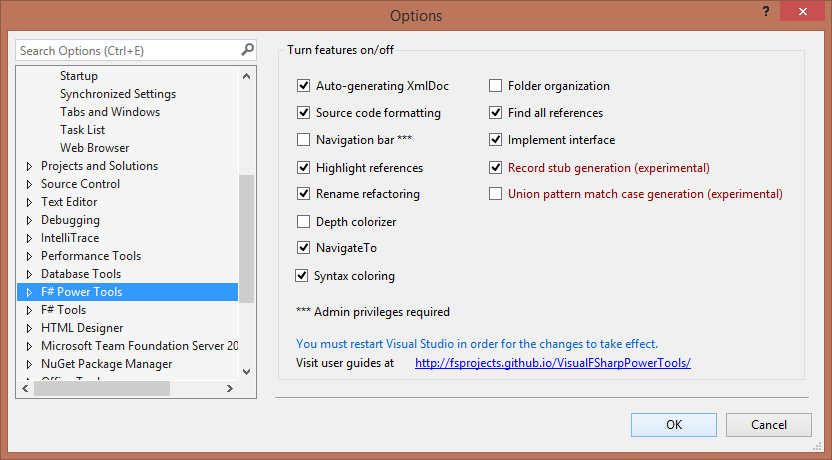
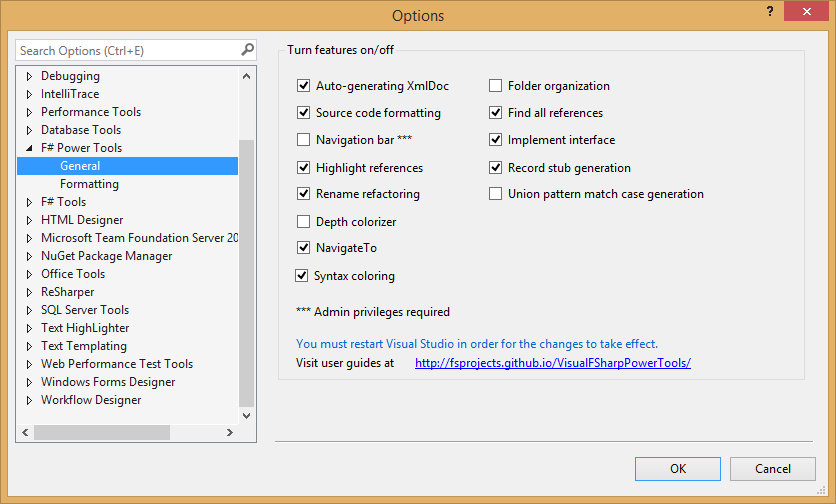
Update option page
* Changed screenshot

diff --git a/src/FSharpVSPowerTools/GeneralOptionsControl.Designer.cs b/src/FSharpVSPowerTools/GeneralOptionsControl.Designer.cs
@@ -82,12 +82,11 @@ namespace FSharpVSPowerTools
             this.chbUnionPatternMatchCaseGeneration.AutoSize = true;
             this.chbUnionPatternMatchCaseGeneration.Checked = true;
             this.chbUnionPatternMatchCaseGeneration.CheckState = System.Windows.Forms.CheckState.Checked;
-            this.chbUnionPatternMatchCaseGeneration.ForeColor = System.Drawing.Color.DarkRed;
             this.chbUnionPatternMatchCaseGeneration.Location = new System.Drawing.Point(181, 124);
             this.chbUnionPatternMatchCaseGeneration.Name = "chbUnionPatternMatchCaseGeneration";
             this.chbUnionPatternMatchCaseGeneration.Size = new System.Drawing.Size(269, 17);
             this.chbUnionPatternMatchCaseGeneration.TabIndex = 16;
-            this.chbUnionPatternMatchCaseGeneration.Text = "Union pattern match case generation (experimental)";
+            this.chbUnionPatternMatchCaseGeneration.Text = "Union pattern match case generation";
             this.chbUnionPatternMatchCaseGeneration.UseVisualStyleBackColor = true;
             // 
             // chbRecordStubGeneration
@@ -95,12 +94,11 @@ namespace FSharpVSPowerTools
             this.chbRecordStubGeneration.AutoSize = true;
             this.chbRecordStubGeneration.Checked = true;
             this.chbRecordStubGeneration.CheckState = System.Windows.Forms.CheckState.Checked;
-            this.chbRecordStubGeneration.ForeColor = System.Drawing.Color.DarkRed;
             this.chbRecordStubGeneration.Location = new System.Drawing.Point(181, 101);
             this.chbRecordStubGeneration.Name = "chbRecordStubGeneration";
             this.chbRecordStubGeneration.Size = new System.Drawing.Size(205, 17);
             this.chbRecordStubGeneration.TabIndex = 15;
-            this.chbRecordStubGeneration.Text = "Record stub generation (experimental)";
+            this.chbRecordStubGeneration.Text = "Record stub generation";
             this.chbRecordStubGeneration.UseVisualStyleBackColor = true;
             // 
             // chbFindAllReferences
